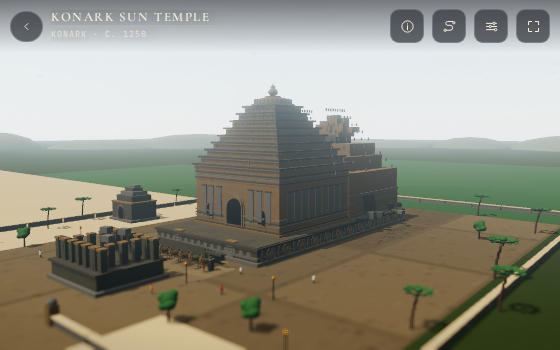
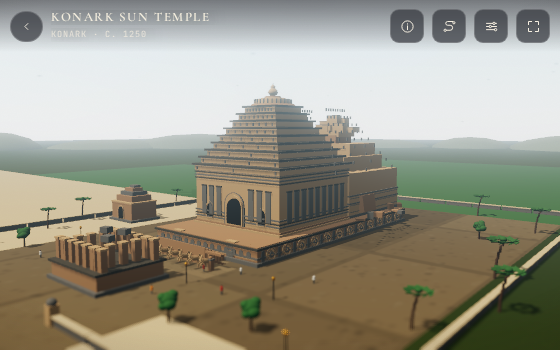
Konark: khondalite, not cold granite
The temple is khondalite — a warm brown-ochre weathering grey-green — with
chlorite for the carved detail. It was 'granite' tinted 0x8b8878 and
'sandstoneBuff' tinted 0x9d9a86: grey hexes off textured bases, halved twice
over, which is why it rendered cold grey.

Both tint off 'cream' now: 0xa8815c for the mass, 0xc6a274 for the detail.

Shore Temple checked and left alone — Pallava granite is genuinely dark.

Changed region(s): [[0.0911, 0.2571, 0.7286, 0.8571], [0.0607, 0.8571, 0.1214, 0.9429]]

diff --git a/monuments/konark-sun-temple.html b/monuments/konark-sun-temple.html
@@ -8,8 +8,8 @@
 <meta name="theme-color" content="#b8865a">
 <meta name="author" content="Dr Sohil Momin">
 <link rel="icon" href="../assets/img/favicon.svg" type="image/svg+xml">
-<link rel="stylesheet" href="../assets/css/fonts.css?v=e69e002985">
-<link rel="stylesheet" href="../assets/css/monument.css?v=e69e002985">
+<link rel="stylesheet" href="../assets/css/fonts.css?v=8a29924bb5">
+<link rel="stylesheet" href="../assets/css/monument.css?v=8a29924bb5">
 <meta property="og:type" content="website">
 <meta property="og:title" content="Konark Sun Temple — 3D miniature · INDIA">
 <meta property="og:description" content="A stone chariot for the sun god, with 24 carved wheels, seven horses and a tower that once stood 61 metres high.">
@@ -31,11 +31,11 @@
 <div id="app"></div>
 <noscript><div class="noscript">This page renders Konark Sun Temple as a live 3D model and needs JavaScript and WebGL. You can still read about the monument on <a href="https://en.wikipedia.org/wiki/Konark_Sun_Temple">Wikipedia</a>.</div></noscript>
 
-<script src="../assets/js/index-data.js?v=e69e002985"></script>
+<script src="../assets/js/index-data.js?v=8a29924bb5"></script>
 <script>window.MONUMENT_DATA = {"name": "Konark Sun Temple", "deva": "कोणार्क सूर्य मंदिर", "place": "Konark", "state": "Odisha", "era": "Eastern Ganga · c. 1250", "period": "c. 1250", "style": "Kalinga architecture", "unesco": "UNESCO World Heritage Site (1984)", "wikipedia": "https://en.wikipedia.org/wiki/Konark_Sun_Temple", "history": ["Narasingha Deva I of the Eastern Ganga dynasty built the Sun Temple at Konark around 1250, on the Odisha coast about 35 kilometres from Puri. It was conceived as the chariot of Surya, with twenty-four great stone wheels, seven horses and a vast processional stair.", "The main sanctuary tower, the deul, is estimated to have risen over 61 metres; it collapsed long ago, and the surviving jagamohana, the assembly hall, stands about 30 metres high with its pyramidal roof of tiers. The whole structure was once set in a walled compound with subsidiary shrines.", "Its surfaces are carved with dancers, musicians, elephants and mythical beasts, with the kama and mithuna scenes for which the temple is famous, and bands of geometric ornament between them. The site was inscribed as a UNESCO World Heritage Site in 1984 and is one of the finest examples of Kalinga architecture."], "facts": [{"k": "Built", "v": "c. 1250 CE"}, {"k": "Commissioned by", "v": "Narasingha Deva I"}, {"k": "Form", "v": "Chariot of Surya, 24 wheels"}, {"k": "Surviving height", "v": "About 30 m of the assembly hall"}, {"k": "Style", "v": "Kalinga, Eastern Ganga"}, {"k": "UNESCO", "v": "1984 · ref. 246"}], "links": [{"label": "Wikipedia", "href": "https://en.wikipedia.org/wiki/Konark_Sun_Temple"}, {"label": "UNESCO listing", "href": "https://whc.unesco.org/en/list/246/"}, {"label": "Odisha tourism", "href": "https://odishatourism.gov.in/"}], "image": {"file": "Konarka_Temple.jpg", "artist": "Subham9423", "license": "CC BY-SA 4.0", "licenseUrl": "https://creativecommons.org/licenses/by-sa/4.0", "page": "https://commons.wikimedia.org/wiki/File:Konarka_Temple.jpg", "src": "assets/img/konark-sun-temple.jpg"}};</script>
 <script type="module">
-  import { boot } from '../assets/js/monument-engine.js?v=e69e002985';
-  import monument from '../assets/js/monuments/konark-sun-temple.js?v=e69e002985';
+  import { boot } from '../assets/js/monument-engine.js?v=8a29924bb5';
+  import monument from '../assets/js/monuments/konark-sun-temple.js?v=8a29924bb5';
   boot(monument);
 </script>
 </body>

diff --git a/assets/js/monuments/konark-sun-temple.js b/assets/js/monuments/konark-sun-temple.js
@@ -73,8 +73,18 @@ export default {
   build(ctx) {
     const { add, box, cyl, sph, cone, torus, block, col, plane } = ctx;
     // khondalite is a grey-brown stone, not terracotta
-    const GREY = (() => { const mm = ctx.mat('granite'); if (!mm || !mm.clone) return 'granite'; const c = mm.clone(); c.color.setHex(0x8b8878); return c; })();
-    const PALE = (() => { const mm = ctx.mat('sandstoneBuff'); if (!mm || !mm.clone) return 'sandstoneBuff'; const c = mm.clone(); c.color.setHex(0x9d9a86); return c; })();
+    /* Khondalite, not granite: a warm brown-ochre that weathers grey-green, and
+       chlorite for the carved detail. Both were tinted grey off textured bases,
+       which halved them again — the temple rendered cold grey. */
+    const stoneTint = (col) => {
+      const mm = ctx.mat('cream');
+      if (!mm || !mm.clone) return 'cream';
+      const c = mm.clone();
+      c.color.setHex(col);
+      return c;
+    };
+    const GREY = stoneTint(0xa8815c);     // the khondalite mass
+    const PALE = stoneTint(0xc6a274);     // carved detail and the wheels
     const PI = Math.PI;
     const arch = ctx.arch, archFrame = ctx.archFrame;
 

diff --git a/HANDOFF.md b/HANDOFF.md
@@ -471,6 +471,21 @@ contact sheets — regenerate them with the throwaway script in the session note
 
 ---
 
+### 19. Konark's stone
+
+The temple is **khondalite**, a warm brown-ochre that weathers grey-green, with
+chlorite for the carved detail. The module had it as `granite` tinted 0x8b8878
+and `sandstoneBuff` tinted 0x9d9a86 — grey hexes off textured bases, so it was
+halved twice over and the temple rendered cold grey.
+
+Both are tinted off `cream` now: 0xa8815c for the mass, 0xc6a274 for the carved
+detail and the wheels.
+
+Shore Temple was checked at the same time and left alone: Pallava granite really
+is a dark grey-brown, and the page reads correctly for what it is.
+
+---
+
 ## Traps worth knowing
 
 These cost real time last session. All are true.
